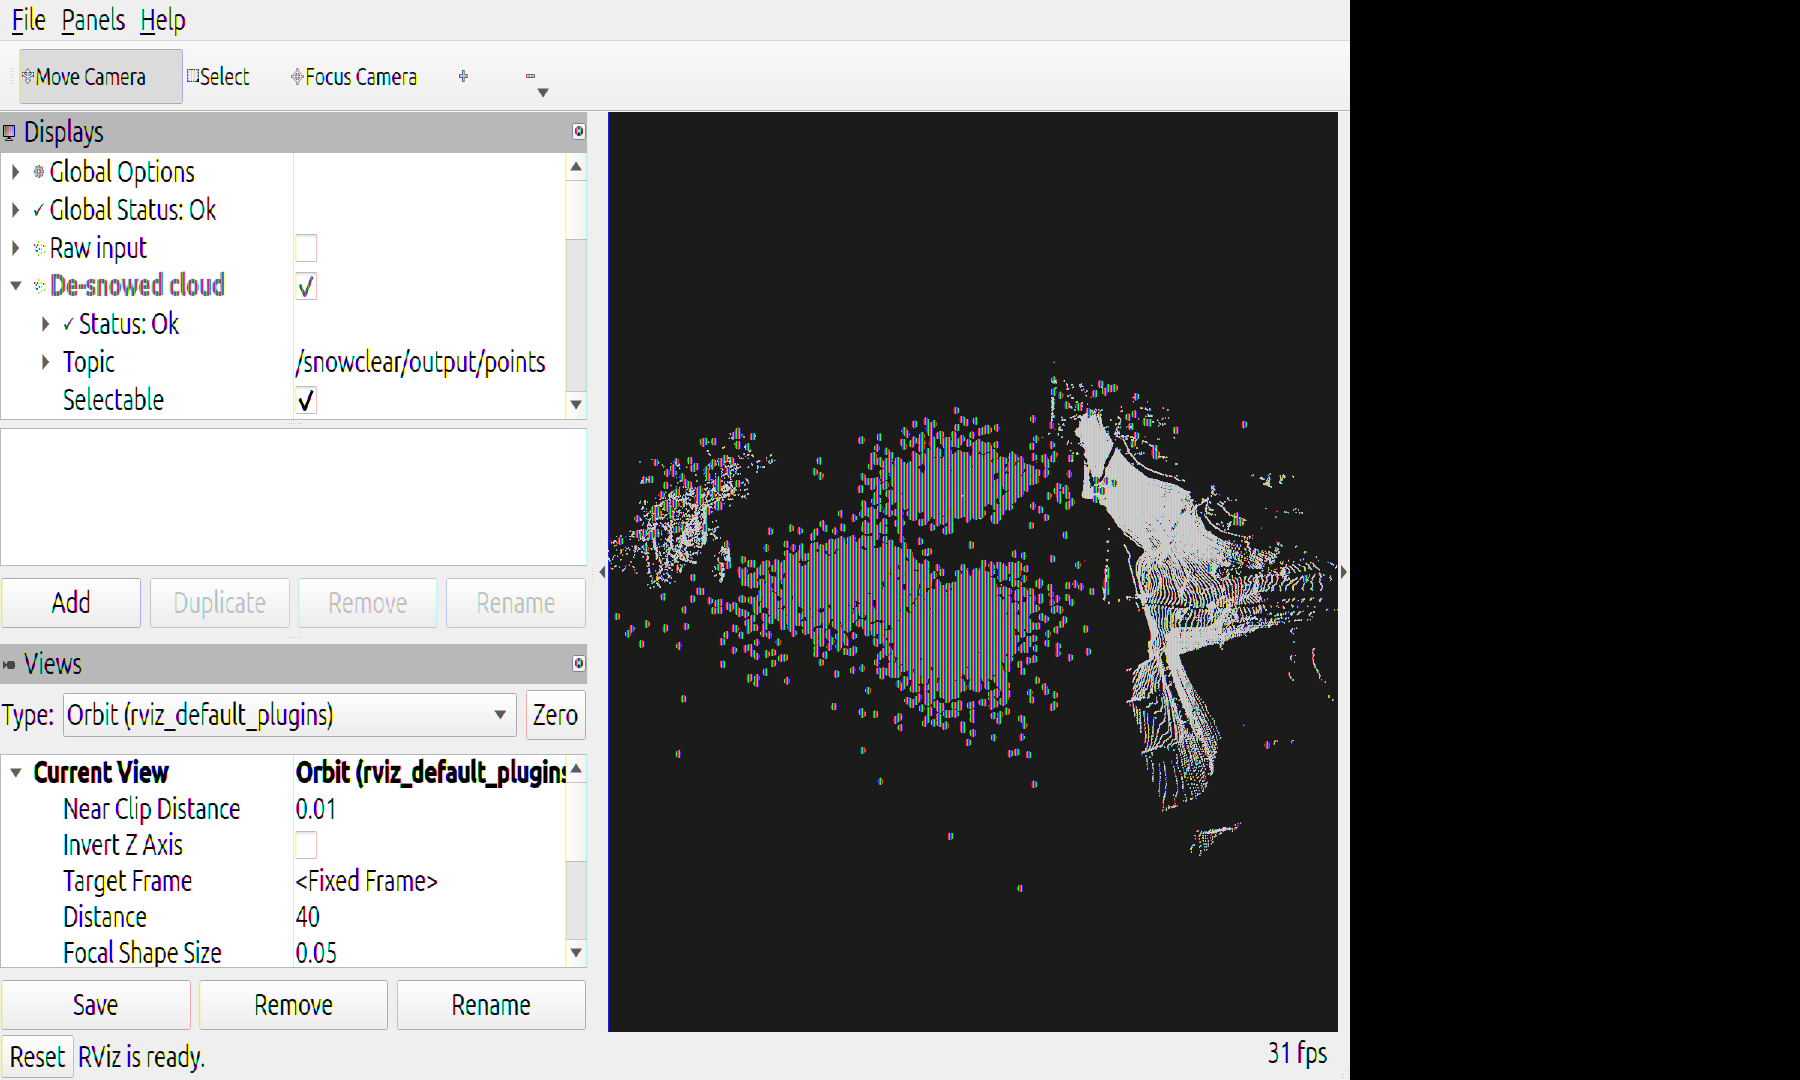
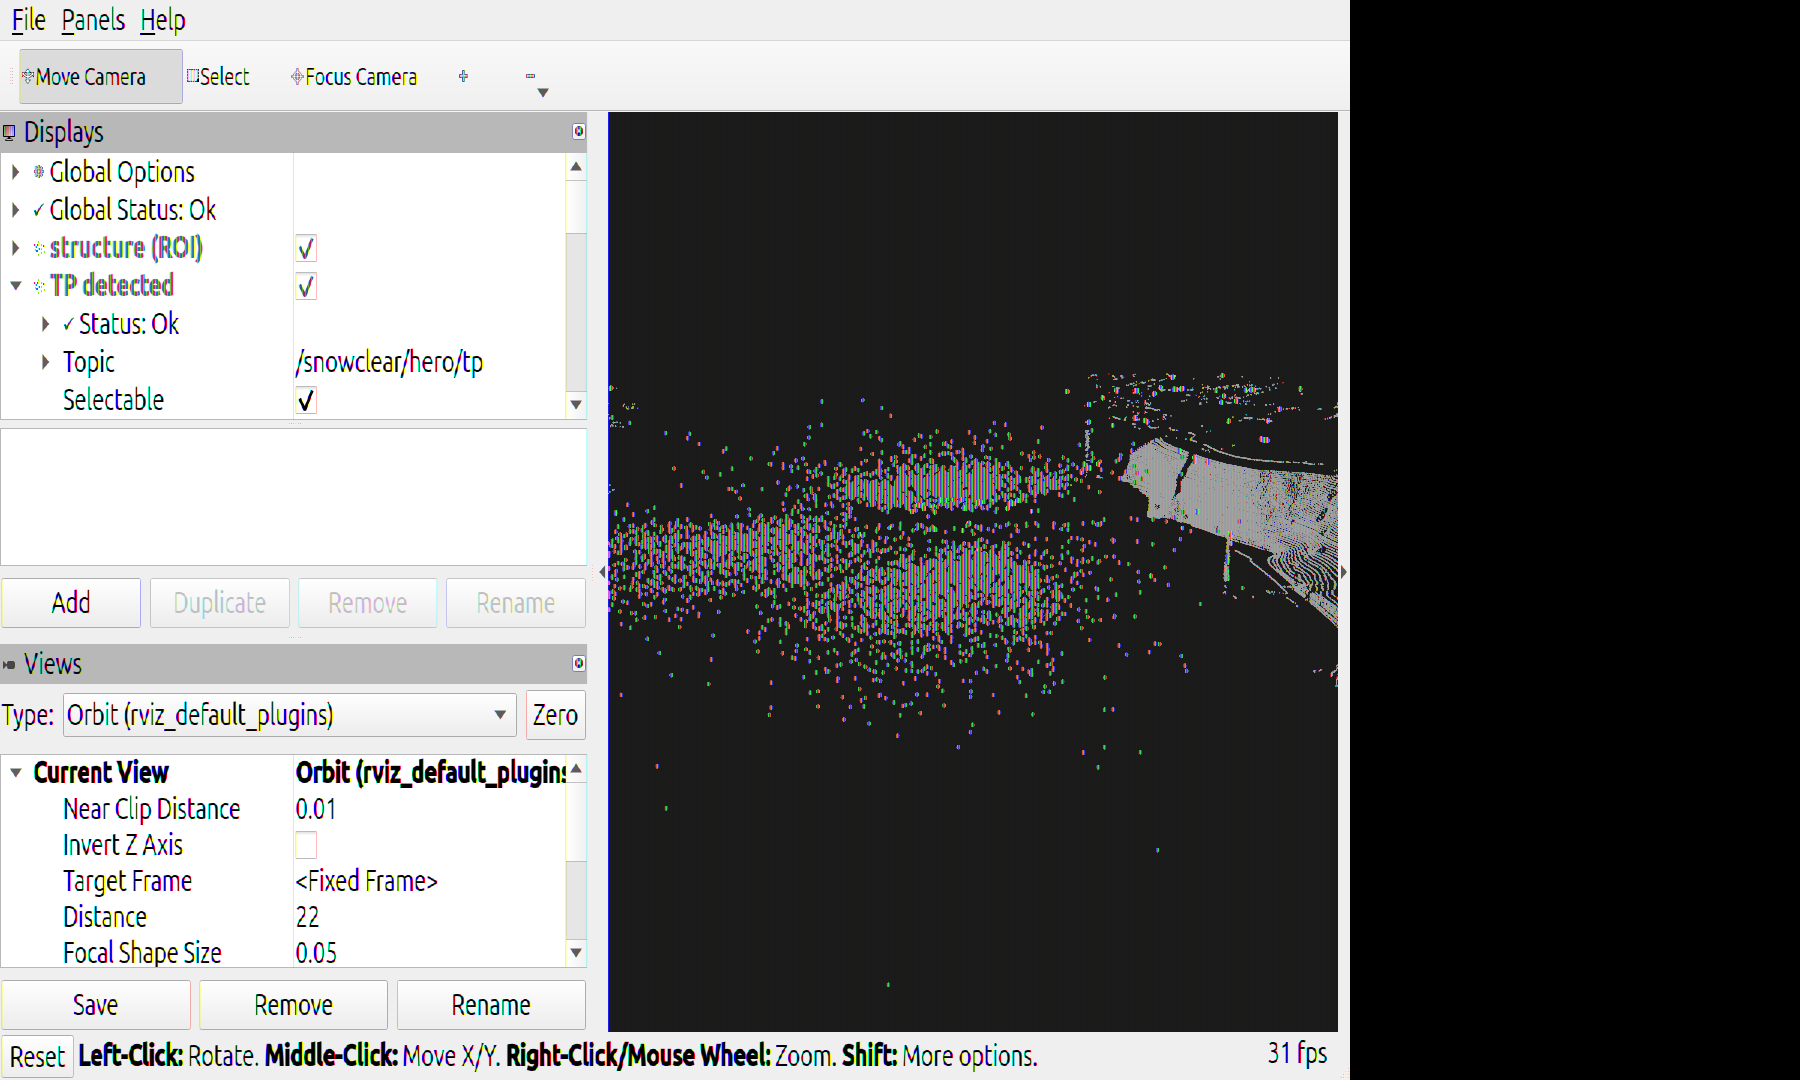
Show the detection outcome in the README hero
The hero was the de-snowed cloud with the removed points in red: honest, but it did
not say which annotated points were found and which were not, and RViz's rainbow
intensity ramp made the scene read as noise.

It is now four flat-coloured classes, so the picture answers the question directly:

    grey   ROI structure
    green  true positives   (detected and annotated, 6 719)
    blue   misses           (annotated, not detected, 22 in the ROI)
    red    false positives  (detected, not annotated, 238)

tools/rviz_feed.py derives the classes from the released reference output and the
ground truth; the RViz display names carry the legend, so no annotation has to be
painted onto the screenshot. The camera is low (distance 22, pitch 0.20) which is
what gives the view its perspective, and every display reports Status: Ok.

The 22 misses are the honest number for this frame: recall here is 96 %, and most of
the 277 misses lie outside the ROI where the detector never looks — Fig. 10 shows that
case on the recall-limited scene 16.

No library, node, parameter or configuration change.

diff --git a/tools/rviz_feed.py b/tools/rviz_feed.py
@@ -58,6 +58,7 @@ def main() -> int:
     ap.add_argument("--rate", type=float, default=0.5)
     ap.add_argument("--cycles", type=int, default=6)
     ap.add_argument("--frame-id", default="lidar")
+    ap.add_argument("--gt", default="", help="ground-truth index file; enables TP/FN/FP")
     a = ap.parse_args()
 
     pts = read_pcd(pathlib.Path(a.pcd))
@@ -67,27 +68,40 @@ def main() -> int:
     det = det[det < pts.shape[0]]
     snow = np.zeros(pts.shape[0], dtype=bool)
     snow[det] = True
-    # The node publishes the *ROI* cloud as its de-snowed output, not the whole frame:
-    # reproduce that, or the display shows 200 k points instead of the ~54 k the
-    # shipped layout is designed around.
+    # Four classes, so the RViz display names are the legend:
+    #   structure  ROI points that are neither annotated snow nor detected
+    #   tp         detected and annotated          fn  annotated, missed
+    #   fp         detected, not annotated
     x, y, z = pts[:, 0], pts[:, 1], pts[:, 2]
     r3 = np.sqrt(x * x + y * y + z * z)
     elev = np.degrees(np.arcsin(np.clip(z / np.maximum(r3, 1e-9), -1.0, 1.0)))
     roi = (z >= -1.0) & (z <= 2.6) & (x * x + y * y <= 17.0 ** 2) & (elev >= -23.0)
-    raw, desnowed, removed = pts, pts[roi & ~snow], pts[snow]
+
+    gt_file = getattr(a, "gt", None)
+    if gt_file:
+        gt = load_indices(pathlib.Path(gt_file))
+        gt = gt[gt < pts.shape[0]]
+        gset = np.zeros(pts.shape[0], dtype=bool); gset[gt] = True
+        cls = {"structure": roi & ~snow & ~gset, "tp": roi & snow & gset,
+               "fn": roi & gset & ~snow, "fp": roi & snow & ~gset}
+    else:                                   # no labels: keep the two-class split
+        cls = {"structure": roi & ~snow, "tp": snow, "fn": np.zeros_like(snow),
+               "fp": np.zeros_like(snow)}
+    raw, desnowed, removed = pts, pts[cls["structure"]], pts[snow]
     print(f"raw {raw.shape[0]}  de-snowed {desnowed.shape[0]}  removed {removed.shape[0]}")
 
     rclpy.init()
     node = Node("rviz_feed")
-    pubs = (
-        node.create_publisher(PointCloud2, "/snowclear/input/points", qos_profile_sensor_data),
-        node.create_publisher(PointCloud2, "/snowclear/output/points", qos_profile_sensor_data),
-        node.create_publisher(PointCloud2, "/snowclear/output/snow_points", qos_profile_sensor_data),
-    )
+    topics = ["/snowclear/output/points", "/snowclear/hero/tp",
+              "/snowclear/hero/fn", "/snowclear/hero/fp"]
+    clouds = [cls["structure"], cls["tp"], cls["fn"], cls["fp"]]
+    pubs = tuple(node.create_publisher(PointCloud2, t, qos_profile_sensor_data) for t in topics)
+    for t, c in zip(topics, clouds):
+        print(f"    {t:34s} {c.sum():6d} points")
     period = 1.0 / a.rate if a.rate > 0 else 0.0
     for i in range(a.cycles):
         stamp = node.get_clock().now().to_msg()
-        for pub, cloud in zip(pubs, (raw, desnowed, removed)):
+        for pub, cloud in zip(pubs, [pts[c] for c in clouds]):
             pub.publish(to_msg(cloud, a.frame_id, stamp))
         print(f"  cycle {i + 1}/{a.cycles}", flush=True)
         time.sleep(period)

diff --git a/docs/figures/README.md b/docs/figures/README.md
@@ -45,7 +45,7 @@ files, and the tool prints the same precision / recall / F1 the pipeline reports
 
 | File | Shows | Notes |
 |---|---|---|
-| `fig0_rviz.png` | **The hero at the top of both READMEs**: a real RViz window running the shipped layout — de-snowed cloud in grey, removed points in red, all displays `Status: Ok` | `bash tools/capture_rviz_screenshot.sh`. Needs a display; RViz is alive ~35 s. The capture is the X11 client window via `xwd`, decoded by `tools/xwd_to_png.py`. Settings used for the still, all asset-only edits to a **copy** of `snowclear.rviz`: window 1800x1080, orbit distance 40, the dimmed raw overlay off (it sits on the same coordinates as the removed points and washes the red out), the de-snowed cloud in `FlatColor 190;202;214` instead of the rainbow intensity ramp, removed points at 8 px, and a static `map -> lidar` transform — without a TF tree RViz warns that the fixed frame does not exist even though it renders |
+| `fig0_rviz.png` | **The hero at the top of both READMEs**: a real RViz window showing the detection outcome — grey ROI structure, green true positives, blue misses, red false positives, with the display names acting as the legend | `bash tools/capture_rviz_screenshot.sh` (needs a display; RViz is alive ~35 s). `tools/rviz_feed.py` publishes the four classes straight from the PCD plus the released reference and ground-truth indices, `tools/xwd_to_png.py` decodes the X11 client window. Settings, all asset-only edits to a copy of `snowclear.rviz`: window 1800×1080, orbit distance 22 at pitch 0.20 (a low camera is what gives the perspective), `FlatColor` per class instead of RViz's rainbow intensity ramp, and a static `map -> lidar` transform — without a TF tree RViz reports the fixed frame as missing and shows `Warn` |
 | `fig0_banner.png`, `fig0_zh_banner.png` | The same pair as a flat bird's-eye view | `--banner`; useful when the depth cue is not wanted (print, or a slide where the ROI circle matters) |
 | `fig0_before.png`, `fig0_after.png` (+ `_zh`) | The pair that opens both READMEs: raw scan with the removed points in red, and the de-snowed result — each as full scene plus a 5.2 m zoom | `python3 tools/render_hero.py --pcd <frame> --detection <indices>`; the zoom window is chosen automatically where snow lies on visible structure, because a crop of the densest cluster is a red cloud with nothing underneath |
 | `fig2_qualitative.png`, `fig2_qualitative_zh.png` (+ `.svg`) | Scene 35 `042126`: (a) raw scan, (b) annotated snow, (c) TP / FN / FP with per-frame P / R / F1 called out, (d) the de-snowed cloud | the reference frame; misses are a handful of clusters just inside the ROI |

diff --git a/README.md b/README.md
@@ -19,13 +19,13 @@
 
 </div>
 
-![RViz running the shipped SnowClear layout: the de-snowed cloud in grey and the 6 957 removed points in red](docs/figures/fig0_rviz.png)
+![RViz showing the detection outcome on the reference frame: grey structure, green true positives, blue misses, red false positives](docs/figures/fig0_rviz.png)
 
-*Reference frame `042126` in RViz, using this repository's own layout
-([`snowclear.rviz`](src/snowclear_ros/rviz/snowclear.rviz)): the de-snowed cloud in grey, the
-6 957 points SnowClear removes in red, every display reporting `Status: Ok`. Reproduce with
-`bash tools/capture_rviz_screenshot.sh` — the recipe and the display settings are in
-[`docs/figures/README.md`](docs/figures/README.md).*
+*Reference frame `042126` in RViz: grey is the ROI structure, **green the 6 719 snow points
+detected and annotated**, **blue the 22 annotated points missed**, **red the 238 detected points
+that are not annotated**. The display names in the tree are the legend, and every display reports
+`Status: Ok`. Reproduce with `bash tools/capture_rviz_screenshot.sh`; the settings are documented
+in [`docs/figures/README.md`](docs/figures/README.md).*
 
 SnowClear removes snowfall noise from a LiDAR scan **per point**, at ≈10 ms per frame on CPU,
 with **no training and no learned weights**. The algorithm core links only PCL, OpenMP and TBB —

diff --git a/README_CN.md b/README_CN.md
@@ -19,12 +19,11 @@
 
 </div>
 
-![在 RViz 中用本仓库自带布局显示：灰色为去雪点云，红色为剔除的 6 957 个雪点](docs/figures/fig0_rviz.png)
+![RViz 中显示参考帧的检测结果：灰色为结构，绿色为正确检出，蓝色为漏检，红色为误检](docs/figures/fig0_rviz.png)
 
-*参考帧 `042126` 在 RViz 中的真实截图，使用本仓库自带的布局
-（[`snowclear.rviz`](src/snowclear_ros/rviz/snowclear.rviz)）：灰色为去雪后的点云，红色为
-SnowClear 剔除的 6 957 个点，所有 display 均为 `Status: Ok`。用
-`bash tools/capture_rviz_screenshot.sh` 复现，配图设置见
+*参考帧 `042126` 在 RViz 中的真实截图：灰色为 ROI 内结构，**绿色为正确检出（6 719）**，
+**蓝色为漏检（22）**，**红色为误检（238）**；左侧 Displays 树里的名字就是图例，所有 display
+均为 `Status: Ok`。用 `bash tools/capture_rviz_screenshot.sh` 复现，设置见
 [`docs/figures/README.md`](docs/figures/README.md)。*
 
 SnowClear 逐点去除 LiDAR 扫描中的降雪噪声：纯 CPU 约 10 ms/帧，**无需训练、无学习权重**。

diff --git a/CHANGELOG.md b/CHANGELOG.md
@@ -28,6 +28,11 @@ The format follows [Keep a Changelog](https://keepachangelog.com/en/1.1.0/).
 
 ### Changed
 
+- **The hero shows the detection outcome, not just the clouds**: four RViz displays — grey ROI
+  structure, green true positives, blue misses, red false positives — named so the Displays tree is
+  the legend, with `FlatColor` replacing RViz's rainbow intensity ramp and a low orbit camera
+  (distance 22, pitch 0.20) for an actual perspective. `tools/rviz_feed.py` derives the four classes
+  from the released reference output and the ground truth.
 - **The README hero is a real RViz screenshot** of the shipped layout: grey de-snowed cloud,
   the removed points in red, every display reporting `Status: Ok`. `tools/capture_rviz_screenshot.sh`
   reproduces it — RViz first, then a light publisher that sends the three clouds straight from the
